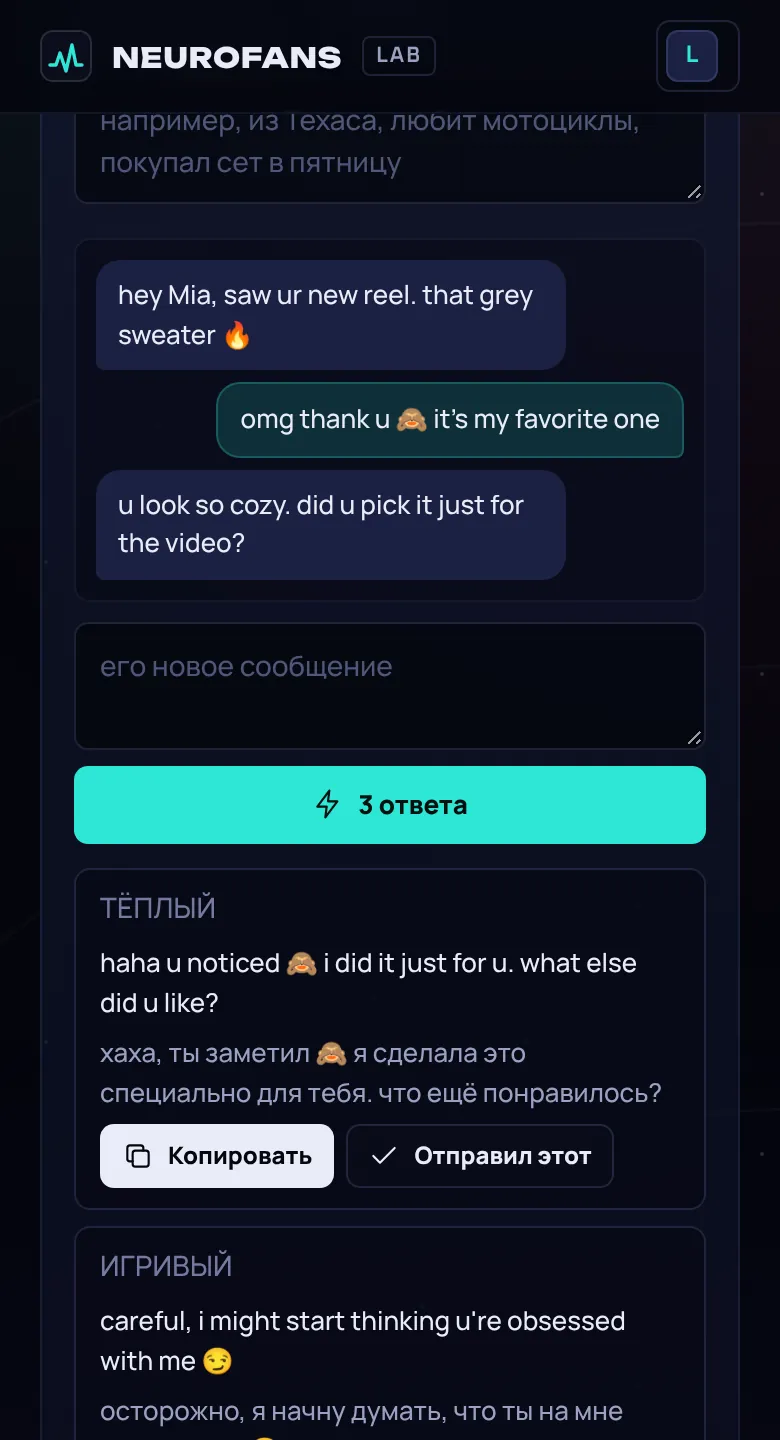
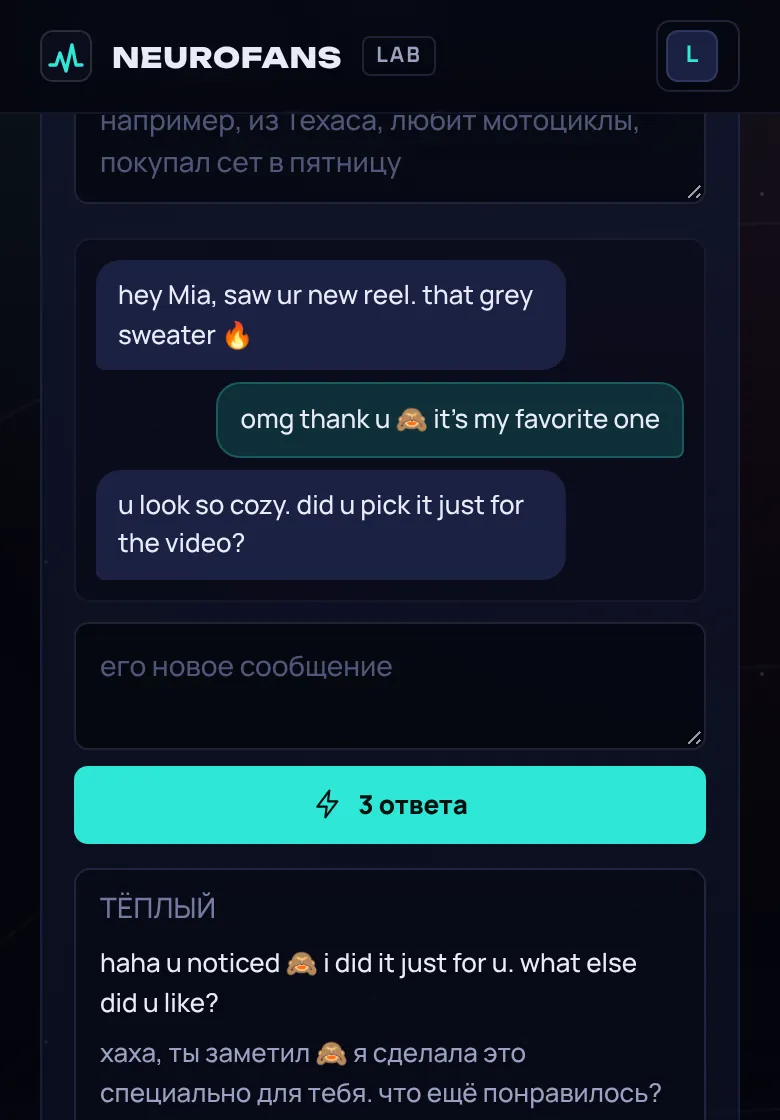
Сайт: полосы-акценты между секциями, черта над заголовками, больше воздуха на телефоне; кадры софта одной высоты на телефоне
Claude-Session: https://claude.ai/code/session_01T96igwgqCbd4qjBFkuRpwA

diff --git a/site/index.html b/site/index.html
@@ -102,6 +102,20 @@ h2{font:800 clamp(26px,3vw,40px)/1.14 var(--disp);margin:0 0 14px;letter-spacing
 h3{font:800 20px/1.3 var(--body);margin:0 0 8px}
 .note{color:var(--di);font-size:13px;margin-top:14px}
 
+
+/* ритм страницы: чередование «полос» с подсветкой */
+.band{position:relative;background:linear-gradient(180deg,rgba(9,13,28,.92),rgba(6,8,18,.92));isolation:isolate}
+.band:before,.band:after{content:"";position:absolute;left:0;right:0;height:1px;background:linear-gradient(90deg,transparent,var(--bc,rgba(46,230,214,.45)),transparent)}
+.band:before{top:0}.band:after{bottom:0}
+.band>.wrap:before{content:"";position:absolute;z-index:-1;inset:0;pointer-events:none;background:radial-gradient(900px 420px at var(--bx,15%) 0%,var(--bg1,rgba(46,230,214,.10)),transparent 70%)}
+.band.mg{--bc:rgba(255,79,139,.5);--bg1:rgba(255,79,139,.10);--bx:85%}
+.band.hi{--bg1:rgba(46,230,214,.16);background:linear-gradient(180deg,#0a1224,#060914)}
+.band.hi>.wrap:after{content:"";position:absolute;z-index:-1;inset:auto 0 0;height:60%;pointer-events:none;background:radial-gradient(700px 300px at 50% 100%,rgba(255,79,139,.10),transparent 70%)}
+.sh h2:before{content:"";display:block;width:44px;height:3px;border-radius:2px;margin:0 0 18px;background:linear-gradient(90deg,var(--cy),var(--mg))}
+.sh.c h2:before{margin-left:auto;margin-right:auto}
+.final{position:relative;overflow:hidden}
+.final:before{content:"";position:absolute;z-index:-1;left:50%;top:50%;width:900px;height:900px;transform:translate(-50%,-50%);border-radius:50%;background:radial-gradient(circle,rgba(46,230,214,.14),rgba(255,79,139,.06) 45%,transparent 70%)}
+
 /* ниша */
 .niche{display:grid;grid-template-columns:1.2fr 1fr;gap:48px;align-items:start}
 .niche p{color:var(--tx2);margin:0 0 16px}
@@ -477,7 +491,10 @@ footer p{margin:6px 0 0;max-width:48em}
   .cta .btn{flex:1 1 100%}
   .proof{grid-template-columns:1fr 1fr;gap:16px 20px}
   .proof b{font-size:26px}
-  section{padding:64px 0}
+  section{padding:76px 0}
+  h2{font-size:29px}
+  .sh{margin-bottom:30px}
+  .pane.shot .shb img{aspect-ratio:780/1120;object-fit:cover;object-position:top}
   .stage{min-height:0;display:flex;flex-direction:column;gap:12px}
   .stage .tag{position:static}
   .fv,.lb,.toast{position:relative;inset:auto;width:100%;animation:none}
@@ -673,7 +690,7 @@ footer p{margin:6px 0 0;max-width:48em}
   </div>
 </section>
 
-<section id="cases">
+<section id="cases" class="band mg">
   <div class="wrap">
     <div class="sh">
       <h2>Кейсы учеников</h2>
@@ -724,7 +741,7 @@ footer p{margin:6px 0 0;max-width:48em}
   </div>
 </section>
 
-<section id="soft" class="soft">
+<section id="soft" class="soft band">
   <div class="wrap">
     <div class="sh">
       <h2>Софт, которого нет у других курсов</h2>
@@ -740,16 +757,16 @@ footer p{margin:6px 0 0;max-width:48em}
     <div class="app">
       <div class="scr">
         <div class="pane shot on" id="p1" role="tabpanel" aria-labelledby="t1">
-          <button type="button" class="shb" data-full="soft/d-core.webp" data-full-m="soft/m-core.webp" data-cap="Эфир кабинета: NF Core, люди за последний час, сигналы всплеска по каждой ссылке и прогноз к воскресенью"><picture><source media="(max-width:760px)" srcset="soft/m-core.webp" width="780" height="1440"><img src="soft/d-core.webp" width="1320" height="646" alt="Скриншот кабинета. Эфир кабинета: NF Core, люди за последний час, сигналы всплеска по каждой ссылке и прогноз к воскресенью" loading="lazy" decoding="async"></picture><span class="demo">пример данных</span><span class="zm">открыть крупно</span></button>
+          <button type="button" class="shb" data-full="soft/d-core.webp" data-full-m="soft/m-core.webp" data-cap="Эфир кабинета: NF Core, люди за последний час, сигналы всплеска по каждой ссылке и прогноз к воскресенью"><picture><source media="(max-width:760px)" srcset="soft/m-core.webp" width="780" height="1120"><img src="soft/d-core.webp" width="1320" height="646" alt="Скриншот кабинета. Эфир кабинета: NF Core, люди за последний час, сигналы всплеска по каждой ссылке и прогноз к воскресенью" loading="lazy" decoding="async"></picture><span class="demo">пример данных</span><span class="zm">открыть крупно</span></button>
         </div>
         <div class="pane shot" id="p2" role="tabpanel" aria-labelledby="t2" hidden>
-          <button type="button" class="shb" data-full="soft/d-plan.webp" data-full-m="soft/m-plan.webp" data-cap="ИИ-Студия: сюжет недели и посты на каждый день под Threads, Instagram и Telegram со ссылкой для био"><picture><source media="(max-width:760px)" srcset="soft/m-plan.webp" width="780" height="1440"><img src="soft/d-plan.webp" width="1320" height="870" alt="Скриншот кабинета. ИИ-Студия: сюжет недели и посты на каждый день под Threads, Instagram и Telegram со ссылкой для био" loading="lazy" decoding="async"></picture><span class="demo">пример данных</span><span class="zm">открыть крупно</span></button>
+          <button type="button" class="shb" data-full="soft/d-plan.webp" data-full-m="soft/m-plan.webp" data-cap="ИИ-Студия: сюжет недели и посты на каждый день под Threads, Instagram и Telegram со ссылкой для био"><picture><source media="(max-width:760px)" srcset="soft/m-plan.webp" width="780" height="1120"><img src="soft/d-plan.webp" width="1320" height="870" alt="Скриншот кабинета. ИИ-Студия: сюжет недели и посты на каждый день под Threads, Instagram и Telegram со ссылкой для био" loading="lazy" decoding="async"></picture><span class="demo">пример данных</span><span class="zm">открыть крупно</span></button>
         </div>
         <div class="pane shot" id="p3" role="tabpanel" aria-labelledby="t3" hidden>
-          <button type="button" class="shb" data-full="soft/d-chat.webp" data-full-m="soft/m-chat.webp" data-cap="Нейро-чаттер: переписка с фанатом, этап воронки и три варианта ответа с переводом"><picture><source media="(max-width:760px)" srcset="soft/m-chat.webp" width="780" height="1440"><img src="soft/d-chat.webp" width="1320" height="943" alt="Скриншот кабинета. Нейро-чаттер: переписка с фанатом, этап воронки и три варианта ответа с переводом" loading="lazy" decoding="async"></picture><span class="demo">пример данных</span><span class="zm">открыть крупно</span></button>
+          <button type="button" class="shb" data-full="soft/d-chat.webp" data-full-m="soft/m-chat.webp" data-cap="Нейро-чаттер: переписка с фанатом, этап воронки и три варианта ответа с переводом"><picture><source media="(max-width:760px)" srcset="soft/m-chat.webp" width="780" height="1120"><img src="soft/d-chat.webp" width="1320" height="943" alt="Скриншот кабинета. Нейро-чаттер: переписка с фанатом, этап воронки и три варианта ответа с переводом" loading="lazy" decoding="async"></picture><span class="demo">пример данных</span><span class="zm">открыть крупно</span></button>
         </div>
         <div class="pane shot" id="p4" role="tabpanel" aria-labelledby="t4" hidden>
-          <button type="button" class="shb" data-full="soft/d-league.webp" data-full-m="soft/m-league.webp" data-cap="Лига недели: места моделей учеников, «Рывок недели» и победители прошлой недели"><picture><source media="(max-width:760px)" srcset="soft/m-league.webp" width="780" height="1440"><img src="soft/d-league.webp" width="1320" height="943" alt="Скриншот кабинета. Лига недели: места моделей учеников, «Рывок недели» и победители прошлой недели" loading="lazy" decoding="async"></picture><span class="demo">пример данных</span><span class="zm">открыть крупно</span></button>
+          <button type="button" class="shb" data-full="soft/d-league.webp" data-full-m="soft/m-league.webp" data-cap="Лига недели: места моделей учеников, «Рывок недели» и победители прошлой недели"><picture><source media="(max-width:760px)" srcset="soft/m-league.webp" width="780" height="1120"><img src="soft/d-league.webp" width="1320" height="943" alt="Скриншот кабинета. Лига недели: места моделей учеников, «Рывок недели» и победители прошлой недели" loading="lazy" decoding="async"></picture><span class="demo">пример данных</span><span class="zm">открыть крупно</span></button>
         </div>
         <div class="pane nt" id="p5" role="tabpanel" aria-labelledby="t5" hidden>
           <div class="bar"><b>TELEGRAM · NEUROFANS LAB</b><span class="demo">пример данных</span></div>
@@ -813,7 +830,7 @@ footer p{margin:6px 0 0;max-width:48em}
 </section>
 
 
-<section id="price">
+<section id="price" class="band hi">
   <div class="wrap">
     <div class="sh">
       <h2>Тарифы</h2>
@@ -911,7 +928,7 @@ footer p{margin:6px 0 0;max-width:48em}
   </div>
 </section>
 
-<section id="free">
+<section id="free" class="band">
   <div class="wrap">
     <div class="sh"><h2>Начни бесплатно</h2><p>Материалы, чтобы попробовать нишу до покупки.</p></div>
     <div class="free">

diff --git a/CLAUDE.md b/CLAUDE.md
@@ -70,7 +70,7 @@
 - Токен админки на сервере: `cat /opt/neurofans-analytics/lab-data/admin_token.txt` — нужен только чтобы задать/сбросить пароль админки.
 
 ## Сайт курса (`site/`, с 28.11.2026 на корне `neurofans.ru`)
-- С 28.11.2026 сайт на `neurofans.ru` (корень; `www.` и старый `new.` → 301 на корень; на корне `/admin* /api/* /r/* ?invite=` → 302 на `lab.`, кабинет живёт только на `lab.`/`to.`). Открыт для поисковиков (`robots.txt`, `sitemap.xml`, canonical), `/v1/` закрыт. Страницы `/guide` (бесплатный гайд, 5 шагов, переписан из access-granted-site без «фото девушки из Pinterest», «раздевающих приложений» и вранья фанатам) и `/prompts` (мануал по реализму и позам, кнопки «Скопировать»); Caddy отдаёт `/guide` → `guide.html` (`try_files`). Фото блока «Реалистичный ИИ-контент» — свои `site/real/p1|p4|p7.jpg` (закрытые кадры). «Начни бесплатно»: гайд, мануал, бот; «Задать вопрос» → бот `t.me/AccessGrantedGuide_bot?start=site`. На телефоне закреплённая плашка «от 3 900 ₽ · Выбрать тариф» (`.dock`, скрыта на первом экране и у тарифов). 28.11 сайт сокращён с 26 до ~18 экранов на телефоне (тарифы с 22-го на 10-й): порядок hero → ниша → примеры → кейсы → математика → софт → программа → тарифы → симулятор → бесплатно → вопросы; убраны «Зачем здесь софт», таблица «Обычный курс vs NEUROFANS» и раздел «Как обучение и софт работают вместе» (`#flow`); на телефоне уроки Базового (`.lesd`) и модули Продвинутого (`.mods details`) раскрываются по нажатию (на компьютере открыты), кейсы листаются вбок, «кому подойдёт» внутри карточек тарифов (`.fit`), подробная таблица — под «Сравнить тарифы подробно» (`.cmpd`). Блок скриншотов называется «Доходы учеников» (Лёня 28.11: это доходы учеников). Блок «Софт» (28.11): вкладки 1–4 — настоящие скриншоты кабинета на тестовой базе с вымышленными моделями (`site/soft/d-*.webp` для компьютера, `m-*.webp` для телефона через `<picture>`, плашка «пример данных», по нажатию крупно в `#lbx`), 5-я «Уведомления» — нарисованная; живой демо-эфир убран. Переснять: локальный кабинет + заглушка ретранслятора + Playwright.
+- С 28.11.2026 сайт на `neurofans.ru` (корень; `www.` и старый `new.` → 301 на корень; на корне `/admin* /api/* /r/* ?invite=` → 302 на `lab.`, кабинет живёт только на `lab.`/`to.`). Открыт для поисковиков (`robots.txt`, `sitemap.xml`, canonical), `/v1/` закрыт. Страницы `/guide` (бесплатный гайд, 5 шагов, переписан из access-granted-site без «фото девушки из Pinterest», «раздевающих приложений» и вранья фанатам) и `/prompts` (мануал по реализму и позам, кнопки «Скопировать»); Caddy отдаёт `/guide` → `guide.html` (`try_files`). Фото блока «Реалистичный ИИ-контент» — свои `site/real/p1|p4|p7.jpg` (закрытые кадры). «Начни бесплатно»: гайд, мануал, бот; «Задать вопрос» → бот `t.me/AccessGrantedGuide_bot?start=site`. На телефоне закреплённая плашка «от 3 900 ₽ · Выбрать тариф» (`.dock`, скрыта на первом экране и у тарифов). 28.11 сайт сокращён с 26 до ~18 экранов на телефоне (тарифы с 22-го на 10-й): порядок hero → ниша → примеры → кейсы → математика → софт → программа → тарифы → симулятор → бесплатно → вопросы; убраны «Зачем здесь софт», таблица «Обычный курс vs NEUROFANS» и раздел «Как обучение и софт работают вместе» (`#flow`); на телефоне уроки Базового (`.lesd`) и модули Продвинутого (`.mods details`) раскрываются по нажатию (на компьютере открыты), кейсы листаются вбок, «кому подойдёт» внутри карточек тарифов (`.fit`), подробная таблица — под «Сравнить тарифы подробно» (`.cmpd`). Блок скриншотов называется «Доходы учеников» (Лёня 28.11: это доходы учеников). Блок «Софт» (28.11): вкладки 1–4 — настоящие скриншоты кабинета на тестовой базе с вымышленными моделями (`site/soft/d-*.webp` для компьютера, `m-*.webp` для телефона через `<picture>`, плашка «пример данных», по нажатию крупно в `#lbx`), 5-я «Уведомления» — нарисованная; живой демо-эфир убран; на телефоне кадры одной высоты (780×1120, `aspect-ratio`). Ритм страницы (28.11): секции «Кейсы» (`.band.mg`), «Софт» (`.band`), «Тарифы» (`.band.hi`), «Начни бесплатно» (`.band`) — полосы со светящимися границами и подсветкой, над заголовками `.sh h2` короткая градиентная черта, у финального блока круговое свечение; на телефоне секции 76px, h2 29px. Переснять: локальный кабинет + заглушка ретранслятора + Playwright.
 - `site/index.html` — одна статическая страница без библиотек, отдаёт сам Caddy; шрифты — `/fonts/*` из `static/fonts` (тома caddy: `./site:/srv/site`, `./static/fonts:/srv/fonts`). Старый сайт ai-creators.ru не трогаем. DNS: A-запись `new` → IP сервера (Рег.ру). Правка страницы — только `git pull` на сервере (файл примонтирован папкой, перезапуск не нужен); правка Caddyfile/томов — `docker compose up -d --force-recreate caddy`.
 - Стиль — как у кабинета («Глубокий космос»: #04050c, бирюза #2ee6d6, маджента #ff4f8b, Unbounded/Manrope/Oxanium), без лайма, капса, эмодзи и длинных тире. Первый экран — canvas-«орбита» каналов (один rAF, стоп вне экрана, `prefers-reduced-motion` — статичный кадр) + настоящая цифра из `/api/public/pulse` (при `ready:false` — нейтральный текст без чисел).
 - 27.11.2026 главная `new.neurofans.ru` пересобрана по структуре ai-creators.ru (Лёня: прошлая версия «беззубая», нужны цифры и заработок): кейсы dmitry_traffic/Соня/Анна/Влад, «380+ учеников», «$6 840 лучший первый месяц» — Лёня подтвердил, что реальные; пример расчёта одной модели ($525+$1 250+$380 ≈ $2 155) подписан как ориентир, не обещание; вместо таймера — блок «Софт, которого нет у других курсов» (вкладки Аналитика/Студия/Чаттер/Лига/Уведомления с плашкой «пример данных», автопереключение каждые 6 с до первого касания, таблица «Обычный курс vs NEUROFANS»). Убрано: таймер, «осталось N мест», зачёркнутая цена, «проходят любые проверки как живые», Face Swap, обещание окупаемости. Галерея — картинки `https://ai-creators.ru/P1..P8.jpg` (не грузятся — блок прячется). 27.11 (вечер): в галерее только закрытые кадры P1/P4/P7/P3 (P2/P5/P6/P8 откровенные, на P6 «школьная» юбка — против правил), сетка 4/2 колонки, скелетон до загрузки, `referrerpolicy=no-referrer`, не загрузилось за 12 с — карточка убирается; первая вкладка софта — живой демо-эфир (счётчики, график, плашка «Всплеск», бейдж DEMO, тик 1,4 с только когда блок виден); на телефоне вкладки листаются плавно, затухание справа, точки-индикатор и свайп по экрану приложения. 27.11 (поздно): блок «Зачем здесь софт» под математикой (4 шага: ссылка → переходы → контент → дожим, у каждого модуль и типичная просадка), секция `#flow` «Как обучение и софт работают вместе» (сценарий из 3 шагов + 4 карточки «модуль → какую задачу решает»), галерея — 3 крупные карточки P1/P4/P7 (9:14, подписи поверх фото, шире основной колонки до 1320px), секция `#real` сразу после «Ниши», пункт «Примеры» в меню; P3 не брать — бикини; кнопка «Примеры генераций» → `ai-creators.ru/primery` — во втором ряду первого экрана и розовой плашкой под галереей (плашка остаётся, даже если фото не загрузились — прячется только сетка), собственный симулятор `#sim` (5 этапов как в чаттере кабинета, 3 ответа на этап, разбор каждого хода, ошибка после 1-го этапа обнуляет переписку, модель честно ИИ, цифры «пример расчёта»), таблица сравнения тарифов + «кому подойдёт» + честная сноска о дневных лимитах ИИ, `scroll-margin-top` у якорей под липкую шапку. Блок «Пруфы автора курса» (в `#cases`, `site/proofs/*.jpg`, просмотр крупно по клику): 6 скринов Кати (Fanvue insights/подписки/уведомления/баланс/выплаты, звёзды канала её модели), ники фанатов и названия аккаунтов заблюрены. Не брать: скрины с «Jule»/«00 Jun» (похожи на правку) и видео с открытой вкладкой MODELCORE. Предыдущая спокойная версия — `/v1/` (шрифты по абсолютному `/fonts/`). В карточках тарифов — обложки Tribute целиком 16:9 (`site/tariffs/base.jpg`, `adv.jpg`; название тарифа в карточке скрыто визуально — оно на обложке), аватар апгрейда `upg.jpg`. Ссылки «Купить» — объект `BUY` в конце страницы: base `web.tribute.tg/p/LYg`, adv `/p/LYl`, up `/p/LYm` (Tribute, цифровые товары с 28.11.2026). Кнопки «Примеры генераций» ведут на `gallery.lukaflow.shop`.
